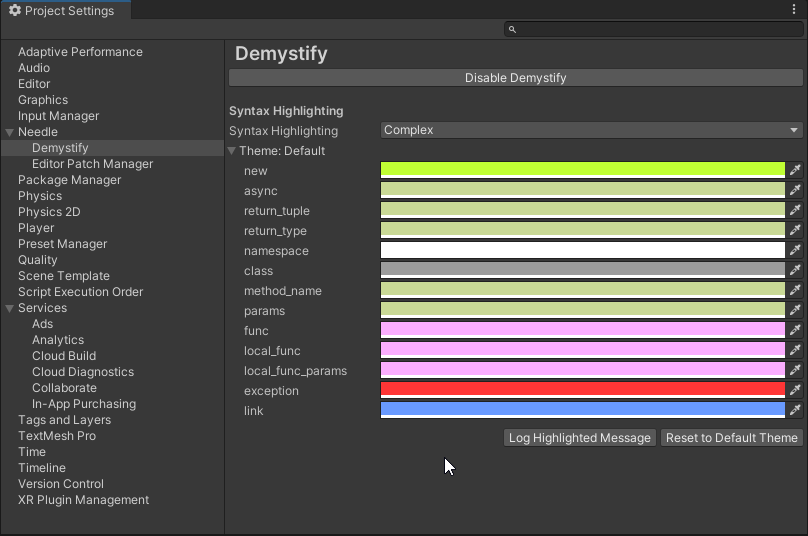
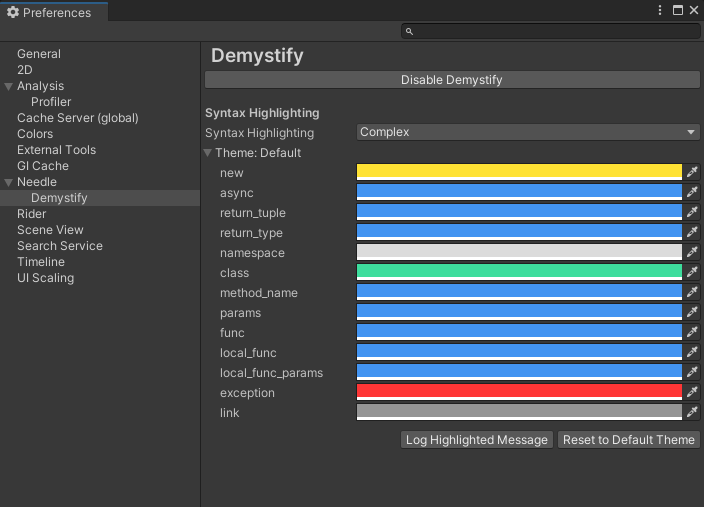
readme, minor theme fix, changelog meta

diff --git a/package/Editor/Settings/Theme.cs b/package/Editor/Settings/Theme.cs
@@ -41,7 +41,7 @@ namespace Needle.Demystify
 			{"local_func", "#240AE7"},
 			{"local_func_params", "#240AE7"},
 			{"exception", "#FF0000"},
-			{"link", "##939079"},
+			{"link", "#414141"},
 			{"keywords", "#240AE7"},
 		};
 

diff --git a/package/Readme.md b/package/Readme.md
@@ -1,18 +1,39 @@
 # Demystify for Unity
-## High performance understanding for stack traces
+## High performance understanding for stack traces ⛷
 
 This package brings [Ben.Demystifier](https://github.com/benaadams/Ben.Demystifier) to Unity
 
-> .NET stack traces output the compiler transformed methods; rather than the source code methods, which make them slow to mentally parse and match back to the source code.
-
-> ### Make error logs more productive
-> Output the modern C# 7.0 features in stack traces in an understandable fashion that looks like the source code that generated them.
+>.NET stack traces output the compiler transformed methods; rather than the source code methods, which make them slow to mentally parse and match back to the source code.
+Output the modern C# 7.0 features in stack traces in an understandable fashion that looks like the source code that generated them.
 
 ![](Documentation~/beforeafter.jpg)
 
 
-## Configureable
+## Quick Start ⚡
+
+Demystify for Unity can be configured under ``Edit/Preferences`` 
+
+![](Documentation~/preferences.png) 
+
+## Features 📜
+
+- **Demystified Stacktraces** 🔮  for any log message and exceptions. It just works, you don't need to do anything.
+- **Syntax Highlighting** 🎨 We provide default syntax highlighting for Unity light and dark skin. You can also change colors to your liking.
+
+![](Documentation~/darkskin.png) 
+
+![](Documentation~/lightskin.png) 
 
 
-![](Documentation~/preferences.png)
+### Highlight only types
+![](Documentation~/typesonly.png) 
+
+
+## Contact ✒
+<b>[🌵 needle — tools for unity](https://needle.tools)</b> • 
+[@NeedleTools](https://twitter.com/NeedleTools) • 
+[@marcel_wiessler](https://twitter.com/marcel_wiessler) • 
+[@hybridherbst](https://twitter.com/hybridherbst)
+
+[Demysity by Ben Adams](https://github.com/benaadams/Ben.Demystifier)
 
